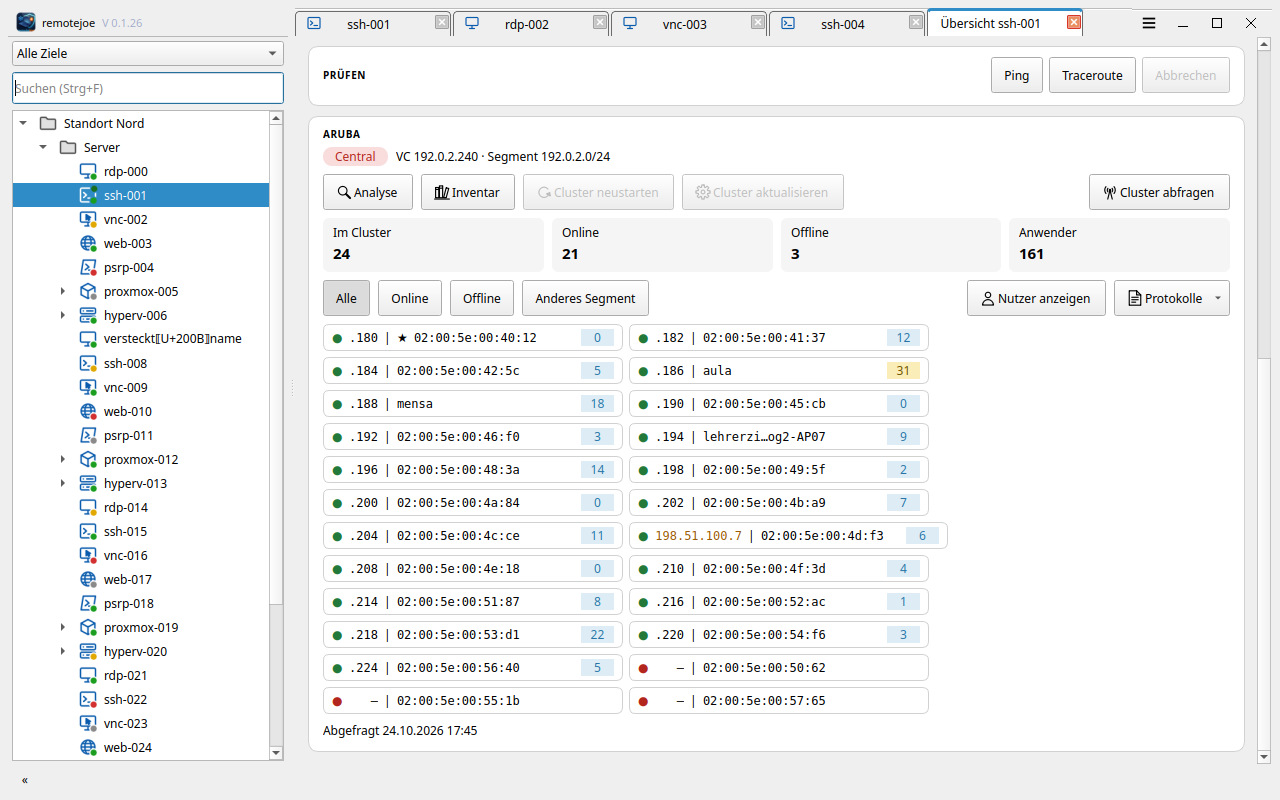
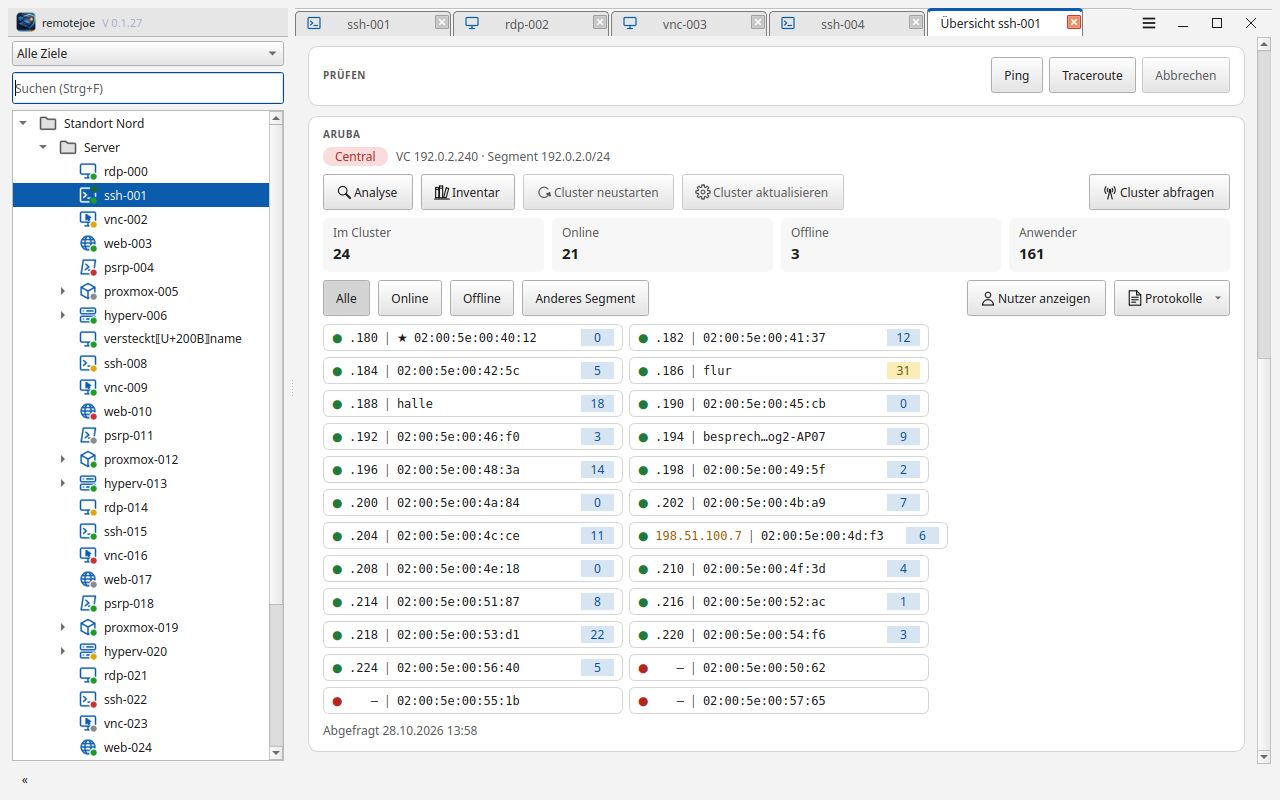
Beispieldaten und Doku-Bilder angepasst; Datenschutzhinweis der MCP-Anbindung gekürzt

diff --git a/crates/ui/src/aruba.rs b/crates/ui/src/aruba.rs
@@ -324,7 +324,7 @@ pub fn ap_json(outputs: &[String], name: &str, ip: &str) -> Value {
 pub fn demo() -> (Value, Value) {
     // Namensspalte 30 Zeichen breit wie bei langen AP-Namen am Gerät.
     let mut rows = String::from("Name                          IP Address       Mode    Spectrum  Clients  Type         Serial #\n----                          ----------       ----    --------  -------  ----         --------\n");
-    let named = [(3, "aula"), (4, "mensa"), (7, "lehrerzimmer-altbau-og2-AP07")];
+    let named = [(3, "flur"), (4, "halle"), (7, "besprechung1-altbau-og2-AP07")];
     let off = [16, 21, 23];
     let clients = [0, 12, 5, 31, 18, 0, 3, 9, 14, 2, 0, 7, 11, 6, 0, 4, 0, 8, 1, 22, 3, 0, 5, 0];
     let mut config = String::from("version 8.10.0.0-8.10.0\n");
@@ -349,8 +349,8 @@ pub fn demo() -> (Value, Value) {
         String::new(),
         "ArubaOS (MODEL: 515), Version 8.10.0.23 LSR\nAP uptime is 3 days 4 hours 12 minutes 2 seconds".to_string(),
         "bond0 is up\nHardware is Ethernet, address is 02:00:5e:00:41:37".to_string(),
-        "Profile Name  ESSID       Clients  Type      Band  Authentication Method\n------------  -----       -------  ----      ----  ---------------------\nschule-1x     Schule      9        employee  all   802.1x\ngast          Gast-WLAN   3        guest     all   None".to_string(),
-        "Name        IP Address    MAC Address        OS     ESSID      Access Point       Channel\n----        ----------    -----------        --     -----      ------------       -------\nanna        198.51.100.5  02:00:5e:00:10:01  Win10  Schule     02:00:5e:00:41:37  36E\nbernd       198.51.100.6  02:00:5e:00:10:02  iOS    Gast-WLAN  02:00:5e:00:41:37  1\nclara       198.51.100.9  02:00:5e:00:10:03  Win11  Schule     02:00:5e:00:41:37  36E".to_string(),
+        "Profile Name  ESSID       Clients  Type      Band  Authentication Method\n------------  -----       -------  ----      ----  ---------------------\nintern-1x     Intern      9        employee  all   802.1x\ngast          Gast-WLAN   3        guest     all   None".to_string(),
+        "Name        IP Address    MAC Address        OS     ESSID      Access Point       Channel\n----        ----------    -----------        --     -----      ------------       -------\nanna        198.51.100.5  02:00:5e:00:10:01  Win10  Intern     02:00:5e:00:41:37  36E\nbernd       198.51.100.6  02:00:5e:00:10:02  iOS    Gast-WLAN  02:00:5e:00:41:37  1\nclara       198.51.100.9  02:00:5e:00:10:03  Win11  Intern     02:00:5e:00:41:37  36E".to_string(),
     ];
     let mut ap = ap_json(&outputs, "02:00:5e:00:41:37", "192.0.2.182");
     ap["at"] = json!(crate::overview::inventory::now());
@@ -394,8 +394,8 @@ Name               IP Address       Mode    Spectrum  Clients  Type         IPv6
             String::new(),
             "ArubaOS (MODEL: 515), Version 8.10.0.23 LSR\nAP uptime is 3 hours 56 minutes 26 seconds".to_string(),
             "eth0 is up, line protocol is up\nHardware is Gigabit Ethernet, address is 02:00:5E:00:53:12\nbond0 is up\nHardware is Ethernet, address is 02:00:5e:00:53:99".to_string(),
-            "Networks\n--------\nProfile Name  ESSID       Clients  Type      Band  Authentication Method\n------------  -----       -------  ----      ----  ---------------------\nschule-1x     Schule      7        employee  all   802.1x\ngast          Gast-WLAN   2        guest     all   None".to_string(),
-            "Client List\n-----------\nName        IP Address    MAC Address        OS     ESSID   Access Point       Channel\n----        ----------    -----------        --     -----   ------------       -------\nanna        198.51.100.5  02:00:5e:00:10:01  Win10  Schule  02:00:5e:00:53:12  36E\nbernd       198.51.100.6  02:00:5e:00:10:02  iOS    Gast    andere-ap          1".to_string(),
+            "Networks\n--------\nProfile Name  ESSID       Clients  Type      Band  Authentication Method\n------------  -----       -------  ----      ----  ---------------------\nintern-1x     Intern      7        employee  all   802.1x\ngast          Gast-WLAN   2        guest     all   None".to_string(),
+            "Client List\n-----------\nName        IP Address    MAC Address        OS     ESSID   Access Point       Channel\n----        ----------    -----------        --     -----   ------------       -------\nanna        198.51.100.5  02:00:5e:00:10:01  Win10  Intern  02:00:5e:00:53:12  36E\nbernd       198.51.100.6  02:00:5e:00:10:02  iOS    Gast    andere-ap          1".to_string(),
         ];
         let a = ap_json(&outputs, "02:00:5e:00:53:12", "192.0.2.210");
         assert_eq!(a["mac"], "02:00:5e:00:53:99", "bond0 vor eth0");
@@ -409,11 +409,11 @@ Name               IP Address       Mode    Spectrum  Clients  Type         IPv6
 
     #[test]
     fn show_network_and_empty_client_list_as_on_the_test_ap() {
-        let net = "Networks\r\n--------\r\nProfile Name     ESSID            Clients  Type      Band          Authentication Method  Key Management  IP Assignment  Status   Zone  Coding   Active  Max IPv4 Users\r\n------------     -----            -------  ----      ----          ---------------------  --------------  -------------  ------   ----  ------   ------  -------------\r\nPROBESCHULE      PROBESCHULE      0        employee  2.4ghz,5ghz   None                   WPA2-AES        Default VLAN   Enabled  -     Default  Yes     N/A\r\nson-selfservice  son-selfservice  0        employee  2.4ghz        None                   none            VLAN 23        Enabled  -     Default  Yes     N/A";
+        let net = "Networks\r\n--------\r\nProfile Name     ESSID            Clients  Type      Band          Authentication Method  Key Management  IP Assignment  Status   Zone  Coding   Active  Max IPv4 Users\r\n------------     -----            -------  ----      ----          ---------------------  --------------  -------------  ------   ----  ------   ------  -------------\r\nTESTNETZ-01      TESTNETZ-01      0        employee  2.4ghz,5ghz   None                   WPA2-AES        Default VLAN   Enabled  -     Default  Yes     N/A\r\nmitarbeiter-net  mitarbeiter-net  0        employee  2.4ghz        None                   none            VLAN 23        Enabled  -     Default  Yes     N/A";
         let t = table_json(net, &["Profile Name"]);
         assert_eq!(t["columns"][7], "IP Assignment");
         assert_eq!(t["rows"][0][7], "Default VLAN", "Wert mit Leerzeichen bleibt ganz");
-        assert_eq!(t["rows"][1][1], "son-selfservice");
+        assert_eq!(t["rows"][1][1], "mitarbeiter-net");
         assert_eq!(t["rows"].as_array().unwrap().len(), 2);
         let cl = "\r\nClient List\r\n-----------\r\nName  IP Address  MAC Address  OS  ESSID  Access Point  Channel  Type  Role  IPv6 Address  Signal  Speed (mbps)  \r\n----  ----------  -----------  --  -----  ------------  -------  ----  ----  ------------  ------  ------------  \r\nNumber of Clients   :0\r\nInfo timestamp      :72853";
         let c = table_json(cl, &["IP Address", "MAC Address"]);
@@ -458,7 +458,7 @@ Name               IP Address       Mode    Spectrum  Clients  Type         IPv6
 
     #[test]
     fn named_aps_make_offline_assignment_uncertain_and_no_allowed_list_means_unknown() {
-        let named = SHOW_APS.replace("02:00:5e:00:53:13  ", "aula               ");
+        let named = SHOW_APS.replace("02:00:5e:00:53:13  ", "flur               ");
         let c = cluster_json(&named, CONFIG, "", "192.0.2.200");
         assert_eq!(c["offline_uncertain"], true);
         assert_eq!(c["offline"], 1, "4 freigegeben, 3 online");
@@ -476,7 +476,7 @@ MAC  Name  IP Address  ESSID  Access Point  \r\n\
 MAC                IP Address       Name               Clients   Need Antenna Config  \r\n\
 ---                ----------       ----               -------   -------------------  \r\n\
 02:00:5e:00:53:12  192.0.2.210      MASTER-demo        7         No                   \r\n\
-02:00:5e:00:53:13  192.0.2.211      aula               12        No                   \r\n\
+02:00:5e:00:53:13  192.0.2.211      flur               12        No                   \r\n\
 02:00:5e:00:53:14  198.51.100.7     02:00:5e:00:53:14  0         No                   \r\n\
 Restricted Management Access Subnets\r\n";
 
@@ -485,21 +485,21 @@ Restricted Management Access Subnets\r\n";
         let clients = "\r\nClient List\r\n-----------\r\n\
 Name    IP Address    MAC Address        OS     ESSID   Access Point       Channel  Type  Role    IPv6 Address  Signal    Speed (mbps)\r\n\
 ----    ----------    -----------        --     -----   ------------       -------  ----  ----    ------------  ------    ------------\r\n\
-anna    198.51.100.5  02:00:5e:00:10:01  Win10  Schule  aula               36E      AC    schule  --            46(good)  173(good)\r\n\
+anna    198.51.100.5  02:00:5e:00:10:01  Win10  Intern  flur               36E      AC    intern  --            46(good)  173(good)\r\n\
 bernd   198.51.100.6  02:00:5e:00:10:02  iOS    Gast    02:00:5e:00:53:12  1        GN    gast    --            27(good)  72(ok)\r\n\
 Number of Clients   :2\r\n";
-        let named = SHOW_APS.replace("02:00:5e:00:53:13  ", "aula               ");
+        let named = SHOW_APS.replace("02:00:5e:00:53:13  ", "flur               ");
         let c = clients_json(clients, &named, "192.0.2.200");
         assert_eq!(c["rows"].as_array().unwrap().len(), 2, "Summenzeile gehört nicht dazu");
         assert_eq!(c["ap_col"], 5);
         assert_eq!(c["rows"][0][10], "46(good)");
-        assert_eq!(c["aps"]["aula"]["ip"], "192.0.2.211");
+        assert_eq!(c["aps"]["flur"]["ip"], "192.0.2.211");
         assert_eq!(c["aps"]["02:00:5e:00:53:12"]["conductor"], true);
     }
 
     #[test]
     fn renamed_aps_get_their_mac_from_show_summary() {
-        let named = SHOW_APS.replace("02:00:5e:00:53:12  192.0.2.210*", "MASTER-demo        192.0.2.210*").replace("02:00:5e:00:53:13  ", "aula               ");
+        let named = SHOW_APS.replace("02:00:5e:00:53:12  192.0.2.210*", "MASTER-demo        192.0.2.210*").replace("02:00:5e:00:53:13  ", "flur               ");
         assert_eq!(summary_aps(SUMMARY).len(), 3);
         let c = cluster_json(&named, CONFIG, SUMMARY, "192.0.2.200");
         assert_eq!(c["offline_uncertain"], false);

diff --git a/crates/importer/tests/robust.rs b/crates/importer/tests/robust.rs
@@ -103,7 +103,7 @@ fn zip_bomb_is_rejected() {
 #[test]
 fn cyclic_and_deep_parents_are_kept() {
     let mut doc = SourceDocument { format: "Probe".into(), ..Default::default() };
-    // Kreis A → B → A mit einem Ziel in A.
+    // Zyklus A → B → A mit einem Ziel in A.
     doc.items.push(SourceItem::Folder { id: "A".into(), parent: Some("B".into()), name: "A".into(), order: 0 });
     doc.items.push(SourceItem::Folder { id: "B".into(), parent: Some("A".into()), name: "B".into(), order: 1 });
     // Kette mit 200 Ebenen.

diff --git a/crates/importer/src/plan.rs b/crates/importer/src/plan.rs
@@ -216,7 +216,7 @@ pub fn plan(doc: &SourceDocument, title: &str) -> ImportPlan {
         }
     }
     attach(&mut top, None, &mut children, 0);
-    // Übrig sind Objekte, deren Elternverweise einen Kreis bilden oder die zu
+    // Übrig sind Objekte, deren Elternverweise einen Zyklus bilden oder die zu
     // tief verschachtelt sind: oben einordnen statt still verlieren.
     let mut moved = 0;
     while let Some(k) = children.keys().next().cloned() {

diff --git a/crates/core/src/schema.rs b/crates/core/src/schema.rs
@@ -193,7 +193,7 @@ mod tests {
     fn schema_3_stays_until_the_first_access_way() {
         use crate::model::{AccessWay, Folder, Node, Protocol, Target, WayCredential};
         let mut idx = Index::default();
-        let mut f = Folder::new("Schule");
+        let mut f = Folder::new("Standort");
         let mut t = Target::new("ap-01", Protocol::Ssh, "192.0.2.4");
         let tid = t.id;
         t.meta.notes = "Notiz".into();
